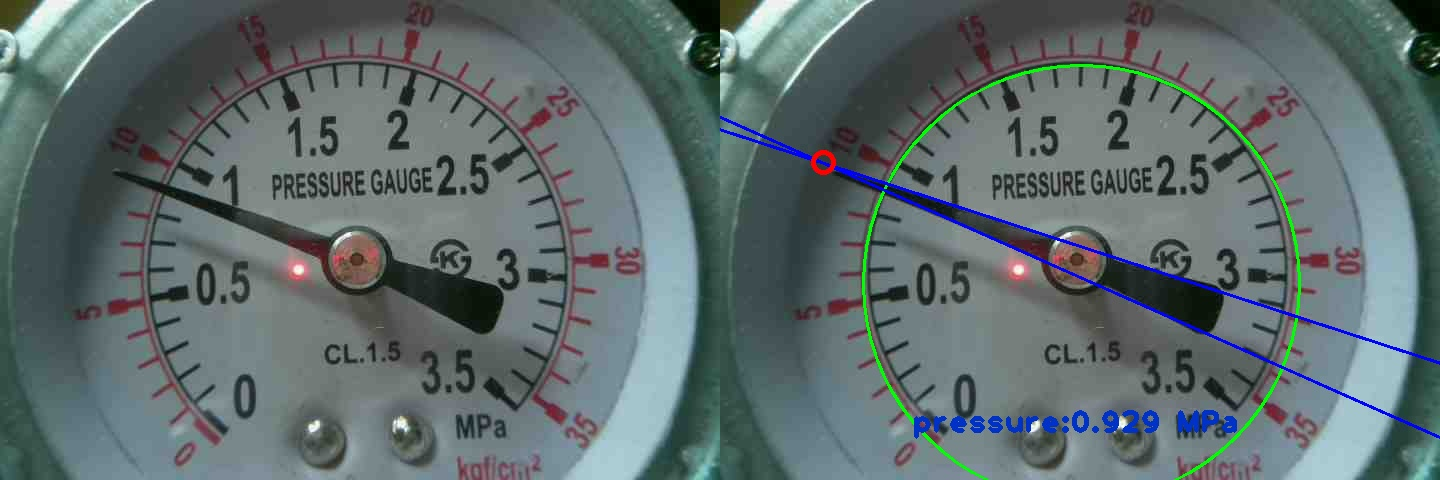
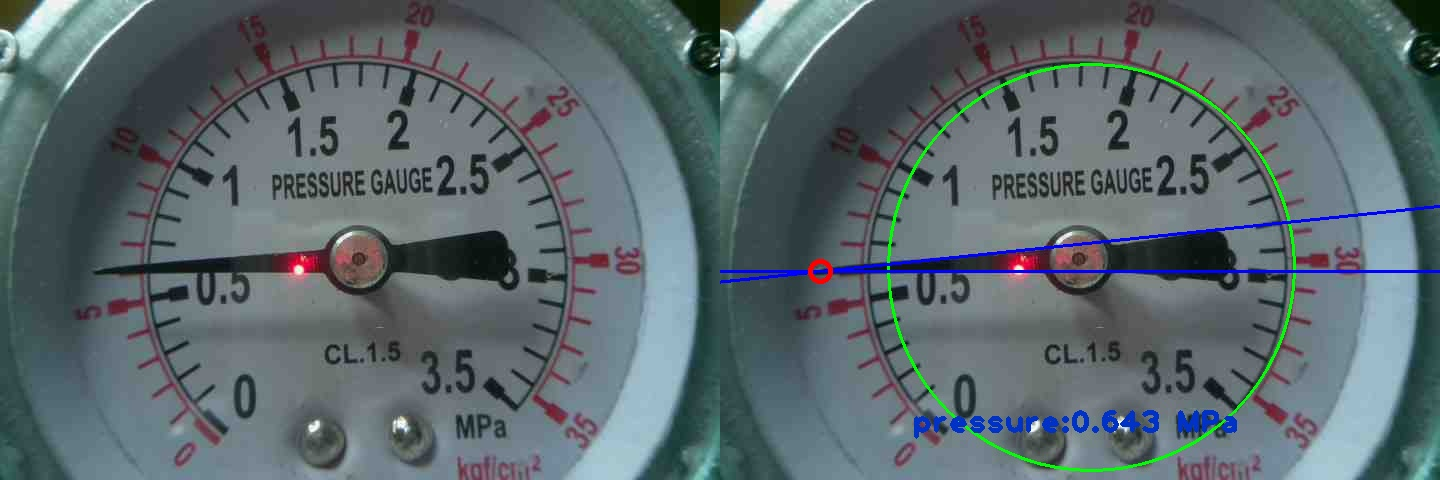
fixed houghline parameters

diff --git a/gauge_det.py b/gauge_det.py
@@ -125,10 +125,12 @@ def main():
             thisObject = objects.pop()
             # contours[thisObject.position] = cv2.convexHull(contours[thisObject.position], returnPoints = True)
             cv2.drawContours(blank, contours, thisObject.position, DEF.WHITE, 5, 2)
+    #cv2.imshow(window_name, blank)
+    #cv2.waitKey(0)
 
     if hough_line:
         blank = cv2.cvtColor(blank, cv2.COLOR_BGR2GRAY)
-        lines = cv2.HoughLines(blank, 1, np.pi / 90, 50)
+        lines = cv2.HoughLines(blank, 3, np.pi / 90, 95)
     if hough_pline:
         plines = cv2.HoughLinesP(prep, 1, np.pi / 180, 20, None, minLineLength=height / 10, maxLineGap=1)
 
